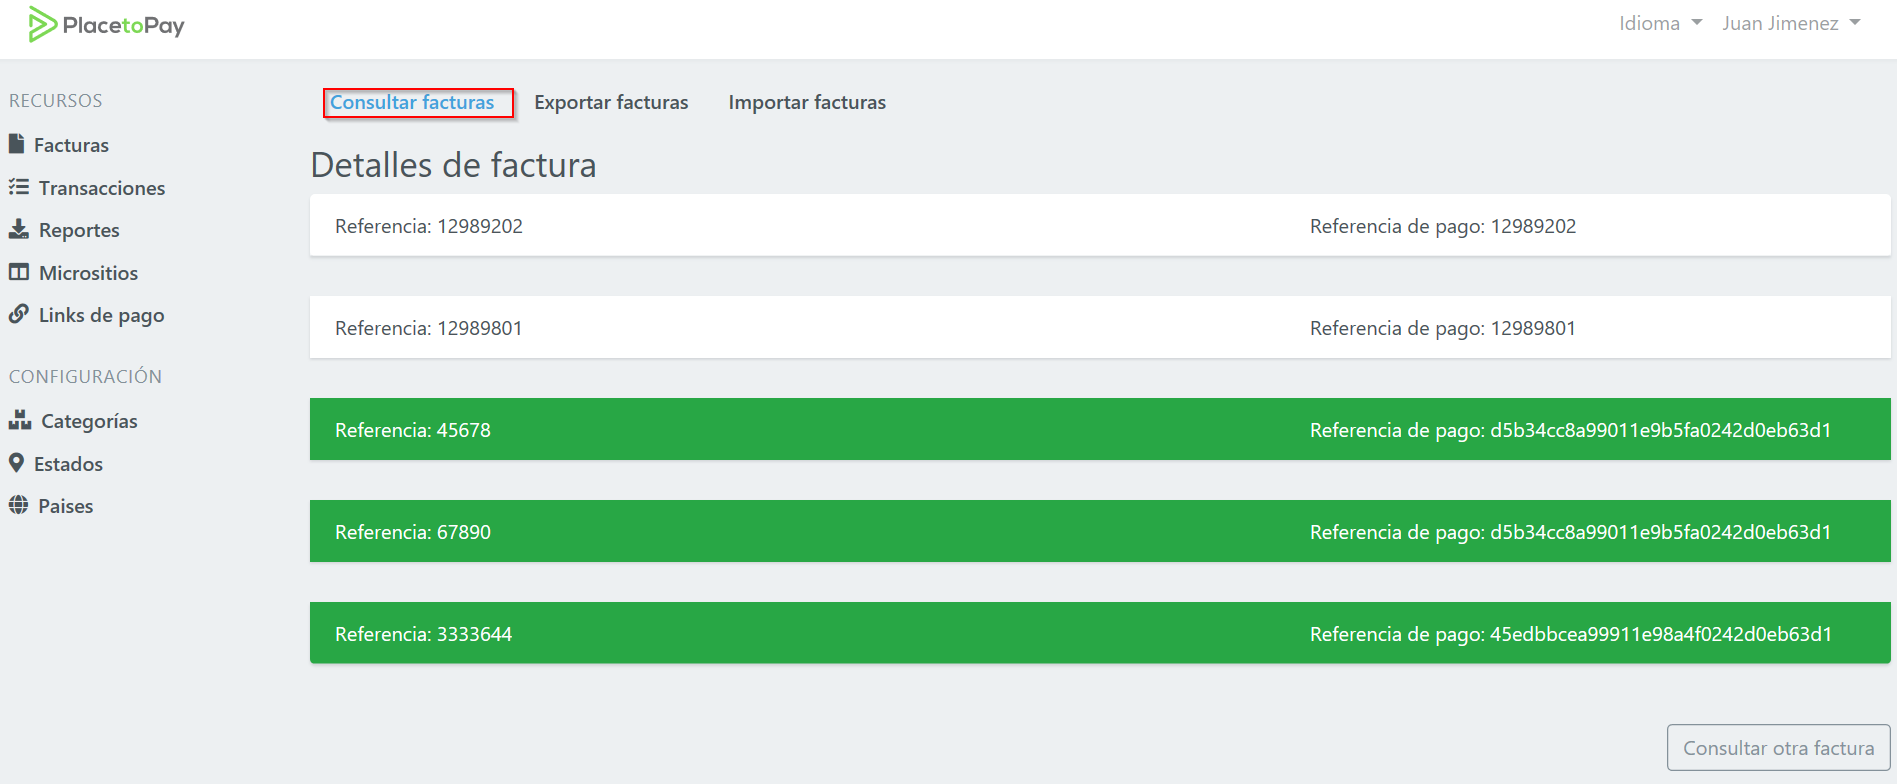
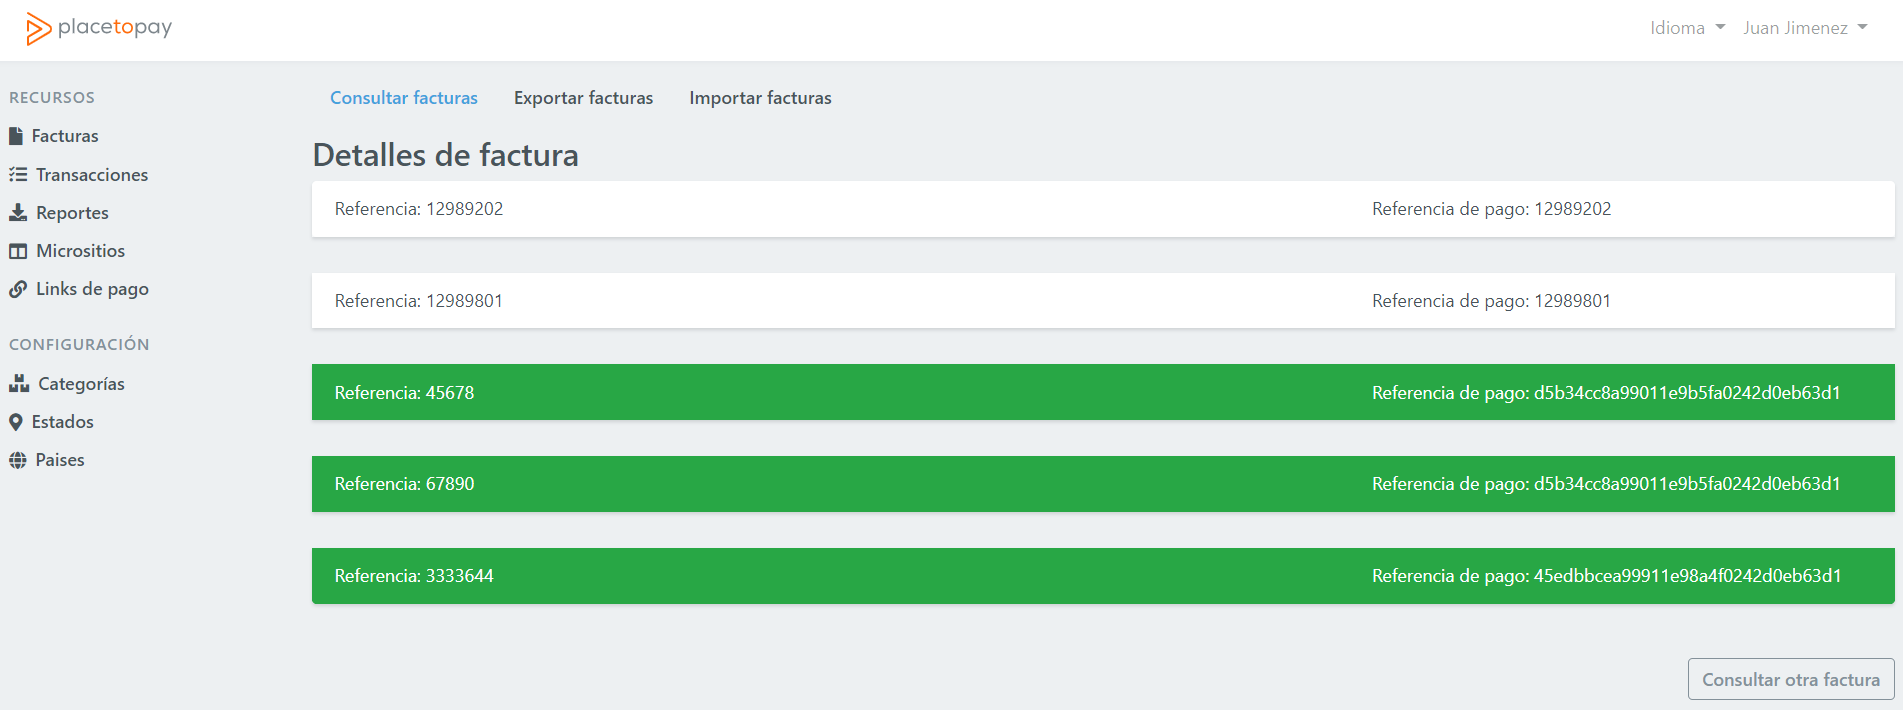
Actualización de imagenes

diff --git a/docs/.vuepress/config.js b/docs/.vuepress/config.js
@@ -3,11 +3,18 @@ module.exports = {
     base: "/micrositios-docs/",
     description: "Documentacion para Micrositios",
     themeConfig: {
-        logo: 'https://dev.placetopay.com/web/wp-content/uploads/2019/02/p2p-logo.svg',
+        logo: 'https://dev.placetopay.com/web/wp-content/uploads/2019/02/p2p-logo_Black.svg',
         sidebar: [
+            a.sidebar-link.active {
+                font-weight: 600;
+                color: #2c3e50;
+                border-left-color: #2c3e50;
+            }
+
             ['', "Inicio"],
             {
                 title: 'Administrador de recursos',
+                Color: color: #2c3e50;
                 colapsable: true,
                 children: [
                     '/administrator_role/#entrada-y-salida-del-software',

diff --git a/docs/administrator_role/resources.md b/docs/administrator_role/resources.md
@@ -287,6 +287,8 @@ Este logo lo debe configurar en la consola administrativa de PlacetoPay para que
 **Opciones adicionales micrositios personalizados**:
 * *Servicio*: Este campo permite seleccionar el servicio al que se debe asociar el micrositio personalizado, estos servicios se desarrollan con anterioridad dando cumplimiento a una serie de requerimientos de integración con el comercio, por parte del área de tecnología de PlacetoPay.
 
+* *Servicio default*: Dentro de la lista de servios existe la opción *Default* que permite adicionar dentro de los micrositios personalizados otros comercios que tengan la posibilidad de crear un servicio web que cumpla con las especificaciones solicitadas por PlacetoPay contenidas en el documento [M-TEC-380 Servicio de consulta de facturas externo](https://docs.google.com/document/d/1OjoZqP2UrnA7gPI2hRyuPHVFiK93wvndwtsoOTUm060/edit)
+
 * *Logo para la categoría*: debe de ser un archivo con formato de imagen <code>.png</code> que se ubicará en el cuerpo de [sites](https://sites.placetopay.com/), las dimensiones recomendadas deben ser 277.5px, 463.84px y el tamaño máximo del archivo debe ser 3MB.
 
 **Opciones adicionales micrositios externos**:
